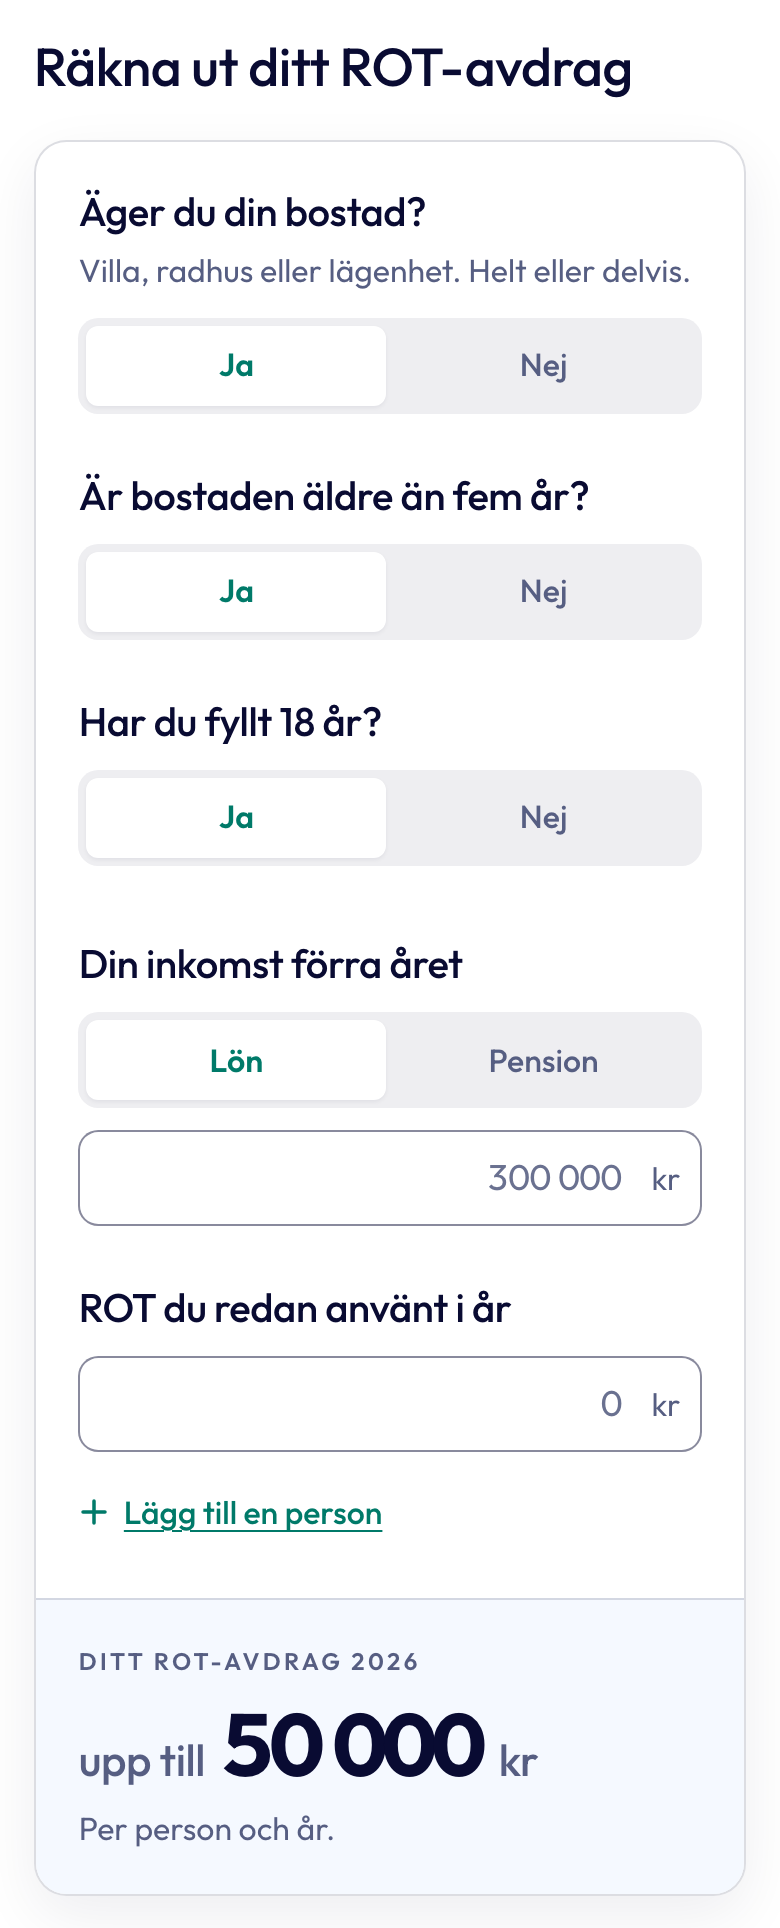
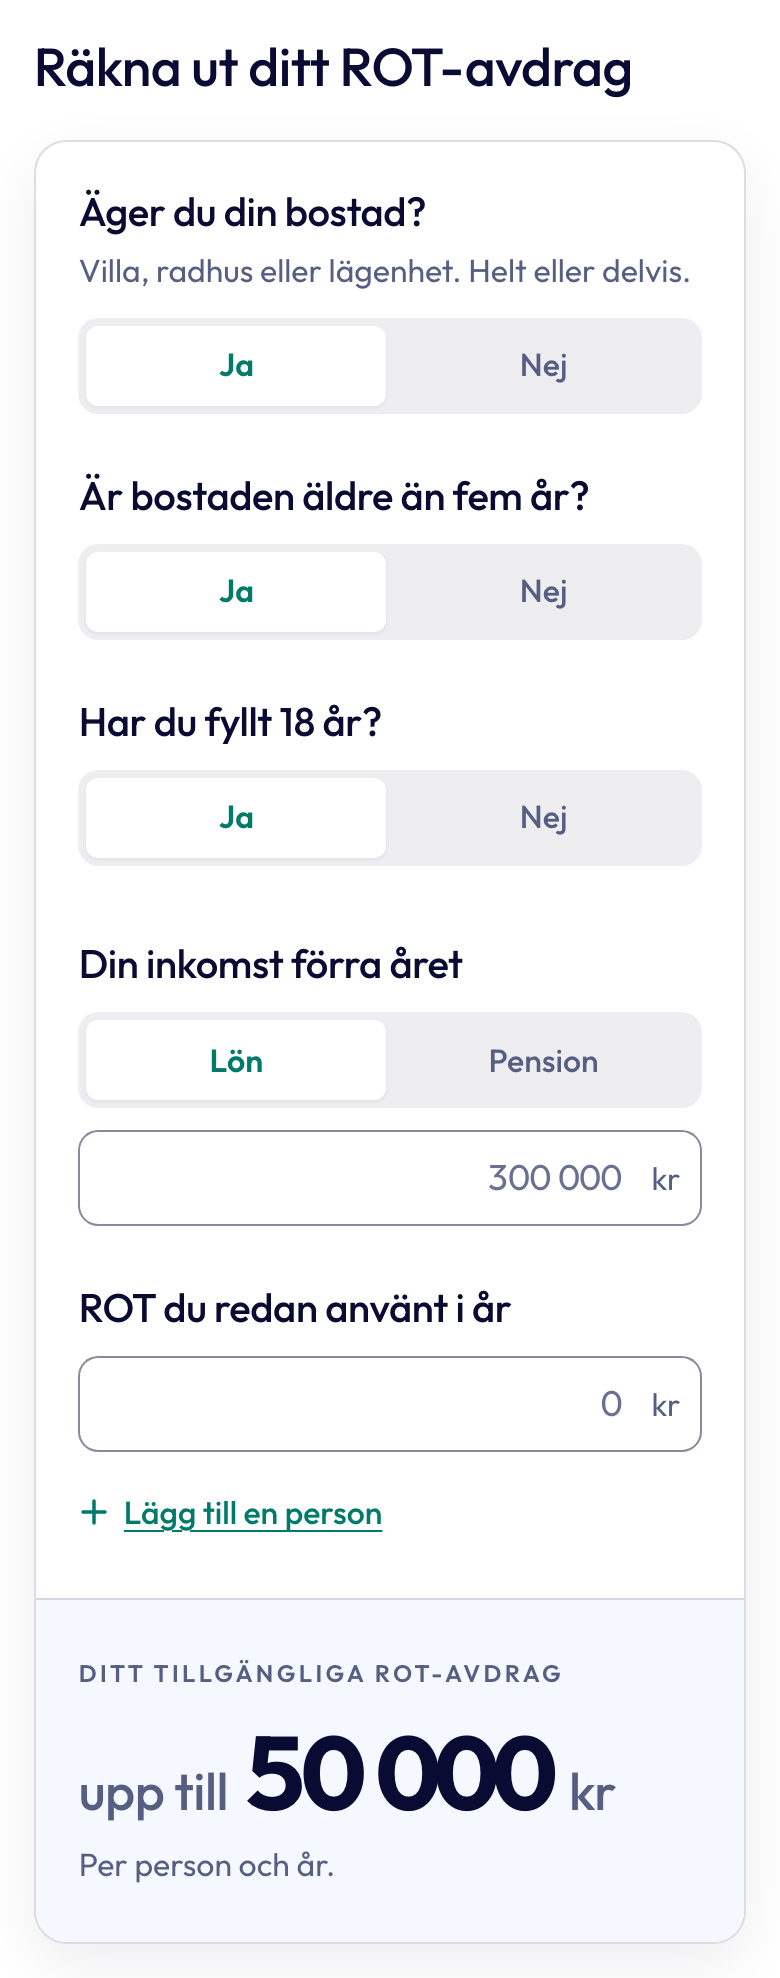
v1: etiketten 'Ditt/Ert tillgängliga ROT-avdrag', större resultatpanel på mobil (52 px), talpar som aldrig lämnar kr ensamt, ihop-span som inline-block

diff --git a/kalkylator/v1/style.css b/kalkylator/v1/style.css
@@ -48,7 +48,7 @@
 .rk__under {
   margin: var(--rk-gap-sub) 0 0;
   font-size: var(--rk-text-under); font-weight: var(--ampy-w-ui); line-height: var(--ampy-lh-ui); color: var(--ampy-ink-muted);
-  max-width: none;
+  max-width: none; text-wrap: pretty;                                    /* ingen ensam "delvis." på sista raden vid 375 */
 }
 .rk__fraga > .rk__segment, .rk__fraga > .rk__inkomst, .rk__fraga > .rk__belopp { margin-top: var(--rk-gap-ctl); }
 
@@ -120,12 +120,13 @@
    luften 0 och raden följer direkt under. */
 .rk__resultat { flex: 1 1 auto; display: grid; grid-template-rows: 1fr auto 1fr; min-width: 0; }
 .rk__huvud { grid-row: 2; display: flex; flex-direction: column; align-items: flex-start; min-width: 0; }
-.rk__eyebrow { margin: 0; }
+.rk__eyebrow { display: block; margin: 0; }                              /* block i stället för systemets inline-flex: etiketten får radbrytas ("Ert tillgängliga grön teknik-avdrag"), med "grön teknik-avdrag" ihop */
 
 .rk__talrad {
   display: flex; flex-wrap: wrap; align-items: baseline; column-gap: var(--ampy-space-2xs);
   margin-top: var(--ampy-space-xs);                                     /* etikett -> tal 14 / 10,5 */
 }
+.rk__talpar { display: inline-flex; align-items: baseline; column-gap: var(--ampy-space-2xs); white-space: nowrap; }   /* talet och kr hålls ihop: bryts raden hamnar "upp till" ensam på första raden, aldrig "kr" ensam på sista */
 .rk__prefix, .rk__talenhet {
   font-size: var(--rk-text-enhet); font-weight: var(--ampy-w-medium); line-height: 1;
   letter-spacing: var(--ampy-ls-heading); color: var(--ampy-ink-muted);
@@ -156,7 +157,7 @@
   font-size: var(--rk-text-stopp); font-weight: var(--ampy-w-medium); line-height: 1.35; color: var(--ampy-ink);
   max-width: none; text-wrap: pretty;
 }
-.rk__ihop { white-space: nowrap; }                                       /* "grön teknik-avdrag" bryts aldrig, varken vid mellanslaget eller bindestrecket */
+.rk__ihop { white-space: nowrap; display: inline-block; }                /* "grön teknik-avdrag" bryts aldrig: nowrap stoppar mellanslaget, inline-block stoppar bindestrecket (Chrome bryter annars efter "-" även i nowrap, sett i probens gt-skärmdump) */
 .rk__resultat[data-status="stopp"] :is(.rk__talrad, .rk__per, .rk__not) { display: none; }
 
 /* Talet byts med en kort intoning; aldrig count-up. base.css nollar tiden vid reduced motion. */
@@ -170,7 +171,8 @@
   .rk-spalt { padding: var(--ampy-space-m); }                           /* rubrikens vänsterkant = kortets */
   .rk {
     --rk-gap-q: clamp(28px, var(--ampy-space-l), 40px);   /* fråga -> fråga 28: l-steget är 21,5 vid 390, under briefens golv */
-    --rk-text-tal: 44px;                    /* number-tokenen ger 38 vid 390; briefen vill 44 till 56 */
+    --rk-text-tal: 52px;                    /* ägaren 2026-09-14: resultatet på mobil var "lite litet" (44); 52 ryms med "upp till" och "kr" på en rad vid 360 */
+    --rk-panel-pad-y: 28px;                 /* panelen får mer luft upptill och nedtill än frågorna (21,5) */
     grid-template-columns: minmax(0, 1fr);
   }
   .rk__segment { display: grid; width: 100%; }                          /* fullbreddskontroller */
@@ -179,8 +181,10 @@
   .rk__fraga--anvant { flex-direction: column; align-items: stretch; }
   .rk__fraga--anvant > .rk__belopp { flex: 0 0 auto; }
   .rk__panel {
+    padding-block: var(--rk-panel-pad-y);
     border-left: 0; border-top: 1px solid var(--ampy-line);
     border-radius: 0 0 calc(var(--ampy-radius-card) - 1px) calc(var(--ampy-radius-card) - 1px);
   }
+  .rk__talrad, .rk__stopp { margin-top: 14px; }                          /* etikett -> tal 14 som på desktop (xs-steget är 10,5 vid 390); tal -> underrad 8,3 som förut (ingår i --rk-huvud-h) */
   .rk__resultat { display: flex; flex-direction: column; }             /* auto-höjd: 1fr-raderna skulle annars ärva femårsradens höjd */
 }

diff --git a/kalkylator/v1/index.html b/kalkylator/v1/index.html
@@ -4,7 +4,7 @@
 <meta charset="utf-8">
 <meta name="viewport" content="width=device-width, initial-scale=1">
 <title>Räkna ut ditt ROT-avdrag: Ampy</title>
-<meta name="description" content="Några frågor. Ditt ROT-avdrag 2026, räknat på din inkomst.">
+<meta name="description" content="Några frågor. Ditt tillgängliga ROT-avdrag, räknat på din inkomst.">
 <link rel="stylesheet" href="../system/ampy.css">
 <link rel="stylesheet" href="style.css">
 <link rel="icon" href="data:,">
@@ -112,12 +112,11 @@
     <div class="rk__panel">
       <div class="rk__resultat" id="rk-resultat" data-status="tak">
         <div class="rk__huvud">
-          <p class="ampy-eyebrow rk__eyebrow" id="rk-eyebrow">Ditt ROT-avdrag 2026</p>
+          <p class="ampy-eyebrow rk__eyebrow" id="rk-eyebrow">Ditt tillgängliga ROT-avdrag</p>
 
           <div class="rk__talrad" id="rk-talrad" aria-live="polite" aria-atomic="true">
             <span class="rk__prefix" id="rk-prefix">upp till</span>
-            <span class="ampy-number rk__tal" id="rk-tal">50 000</span>
-            <span class="rk__talenhet" id="rk-talenhet">kr</span>
+            <span class="rk__talpar"><span class="ampy-number rk__tal" id="rk-tal">50 000</span> <span class="rk__talenhet" id="rk-talenhet">kr</span></span>
           </div>
           <p class="rk__per" id="rk-per">Per person och år.</p>
 

diff --git a/kalkylator/v1/app.js b/kalkylator/v1/app.js
@@ -39,7 +39,7 @@ const gom = (el, dolj) => { if (el.hidden !== dolj) el.hidden = dolj; };
 /* Läget ur ?m= (default rot). Ett läge, ett avdrag: aldrig båda. Femårsfrågan visas bara i ROT (style.css). */
 const mode = new URLSearchParams(location.search).get('m') === 'gt' ? 'gt' : 'rot';
 kort.dataset.mode = mode;
-const NAMN = mode === 'gt' ? 'grön teknik-avdrag' : 'ROT-avdrag';     /* etiketten är inline-flex (ingen span där): hårt mellanslag i stället */
+const NAMN = mode === 'gt' ? 'grön teknik-avdrag' : 'ROT-avdrag';
 const ANVANT = mode === 'gt'
   ? { forsta: 'Grön teknik du redan använt i år', ovriga: 'Grön teknik använt i år' }
   : { forsta: 'ROT du redan använt i år', ovriga: 'ROT använt i år' };
@@ -116,8 +116,7 @@ function rendera() {
   if (fran !== r.status) resultat.dataset.status = r.status;
   let andrat = false;
 
-  const nyEyebrow = `${r.antal > 1 ? 'Ert' : 'Ditt'} ${NAMN} 2026`;
-  if (eyebrow.textContent !== nyEyebrow) eyebrow.textContent = nyEyebrow;
+  skriv(eyebrow, `${r.antal > 1 ? 'Ert' : 'Ditt'} tillgängliga ${NAMN}`);   /* ägarens ordval 2026-09-14: "tillgängliga", inget årtal */
 
   if (r.status === 'stopp') {
     gom(stopp, false);                              /* synlig först, texten sedan: då läser skärmläsaren upp beskedet */

diff --git a/kalkylator/v1/NOTES.md b/kalkylator/v1/NOTES.md
@@ -205,3 +205,17 @@ Playwright-artefakt dokumenterad i `_probe.mjs bild()`: en fullPage-skärmdump a
 Öppet för ägaren: mobilen kräver scroll för att se talet efter fem frågor (en fast resultatrad nederst på mobil är
 nästa steg om det stör); "Ta bort"-länken är 22 px hög på fin pekare (44 px på touch); hushållets "redan använt"
 frågas per person eftersom taket är per person.
+
+## Finputs 2026-09-14 (ägarens feedback: etiketten, mobilens resultatpanel)
+
+- Etiketten över talet: "Ditt tillgängliga ROT-avdrag" / "Ert tillgängliga ROT-avdrag" (grön teknik: "Ditt/Ert
+  tillgängliga grön teknik-avdrag"), inget årtal. Skrivs via `skriv()` så "grön teknik-avdrag" ligger i ihop-spannet;
+  `.rk__eyebrow` är `display: block` (systemets inline-flex kan inte radbryta) och bryter före "grön" på mobil.
+- `.rk__ihop` är nu `inline-block` + `nowrap`: Chrome bröt efter bindestrecket i "TEKNIK-AVDRAG" trots nowrap
+  (syntes i probens gt-skärmdump); inline-block flyttar hela ordet till nästa rad.
+- Mobilens resultatpanel större: talet 44 -> 52 (prefix/kr 22 -> 26), panelens vertikala padding 21,5 -> 28,
+  etikett -> tal 14 (var 10,5). Kort 901,7 (rot) / 806,7 (gt). Stoppläget ±0 (huvudhöjden följer talstorleken).
+- Talet och "kr" i ett `.rk__talpar` (nowrap): långa summor på smala skärmar (fyra personer, "upp till 200 000 kr"
+  vid 375) bryter som "upp till" / "200 000 kr", aldrig "kr" ensamt på sista raden. Vid 390+ på en rad.
+- `text-wrap: pretty` på underraden: ingen ensam "delvis." vid 375.
+- Probe 96/96 (mobiltak 920/820 efter panelen).
